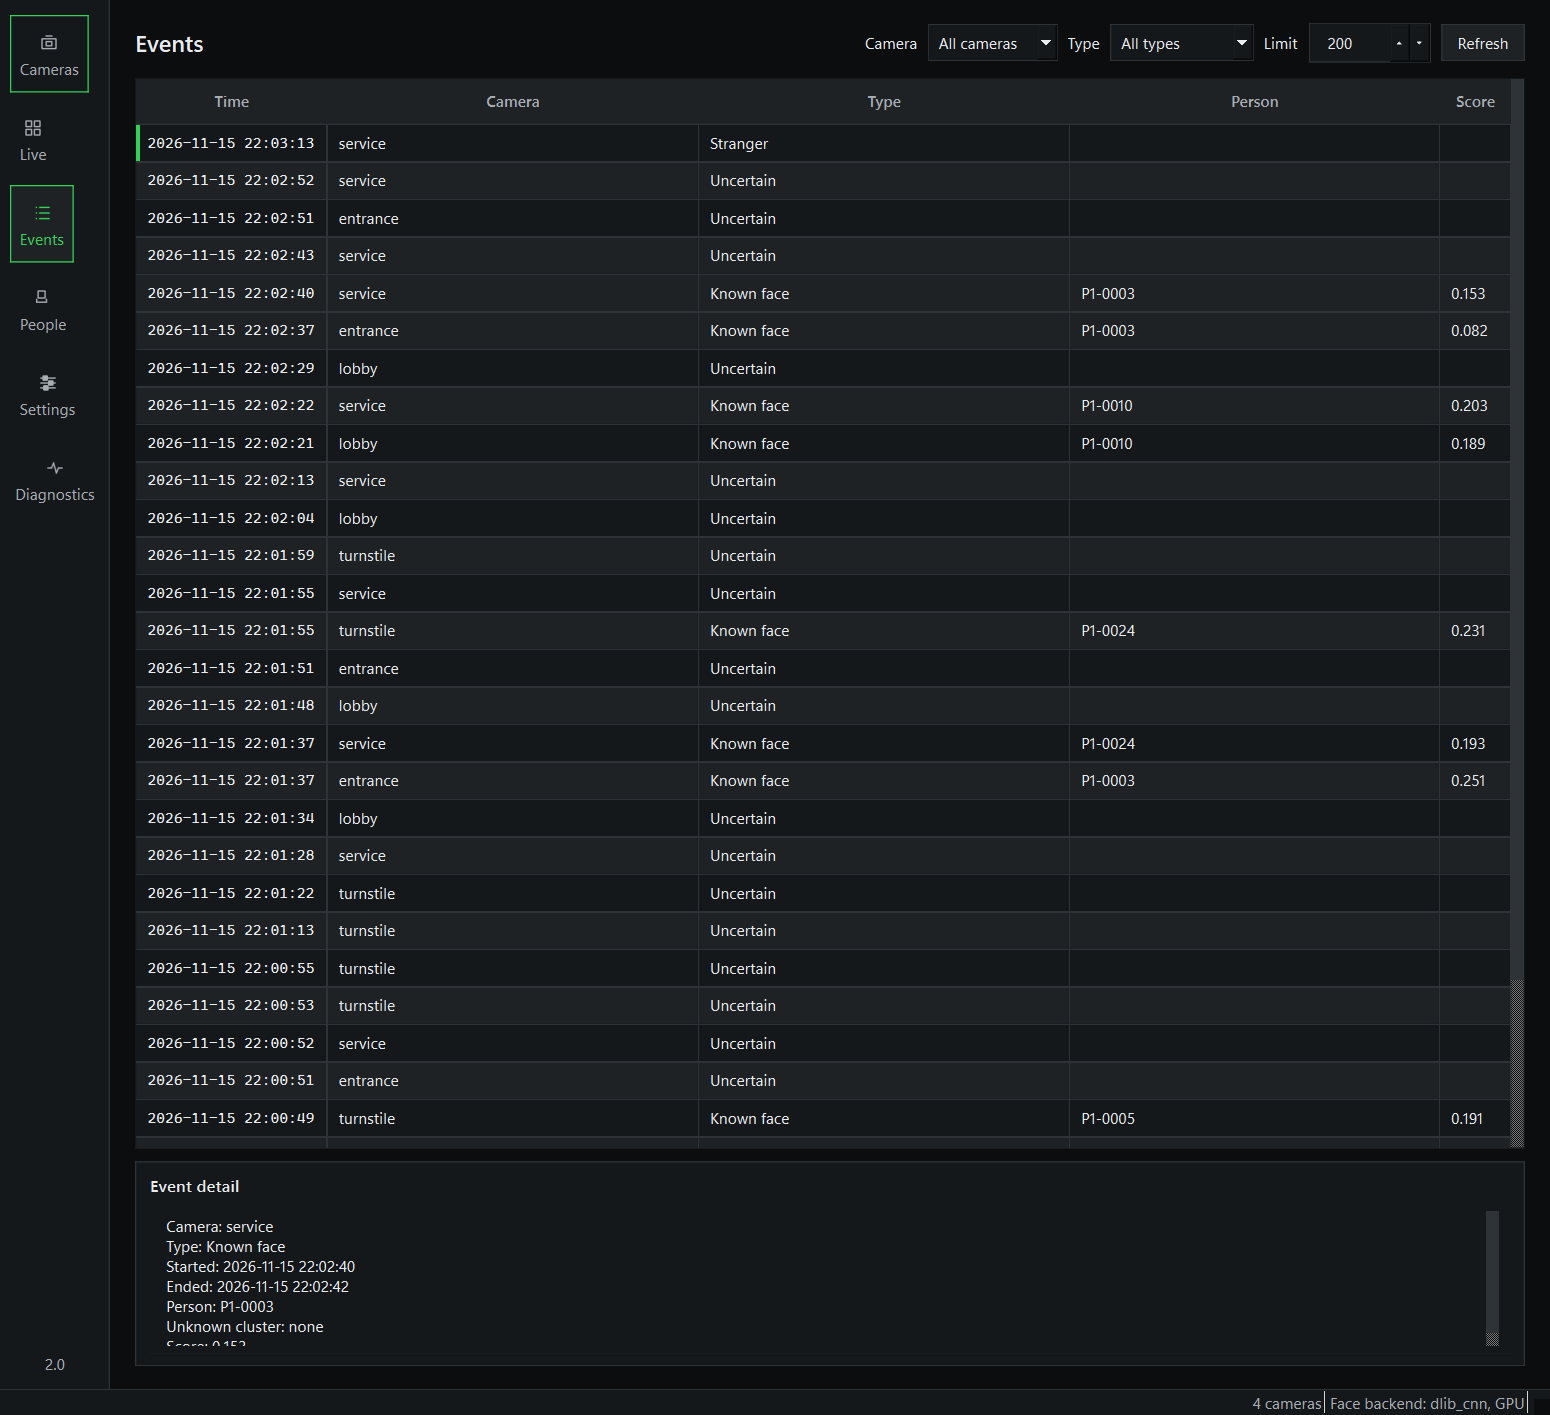
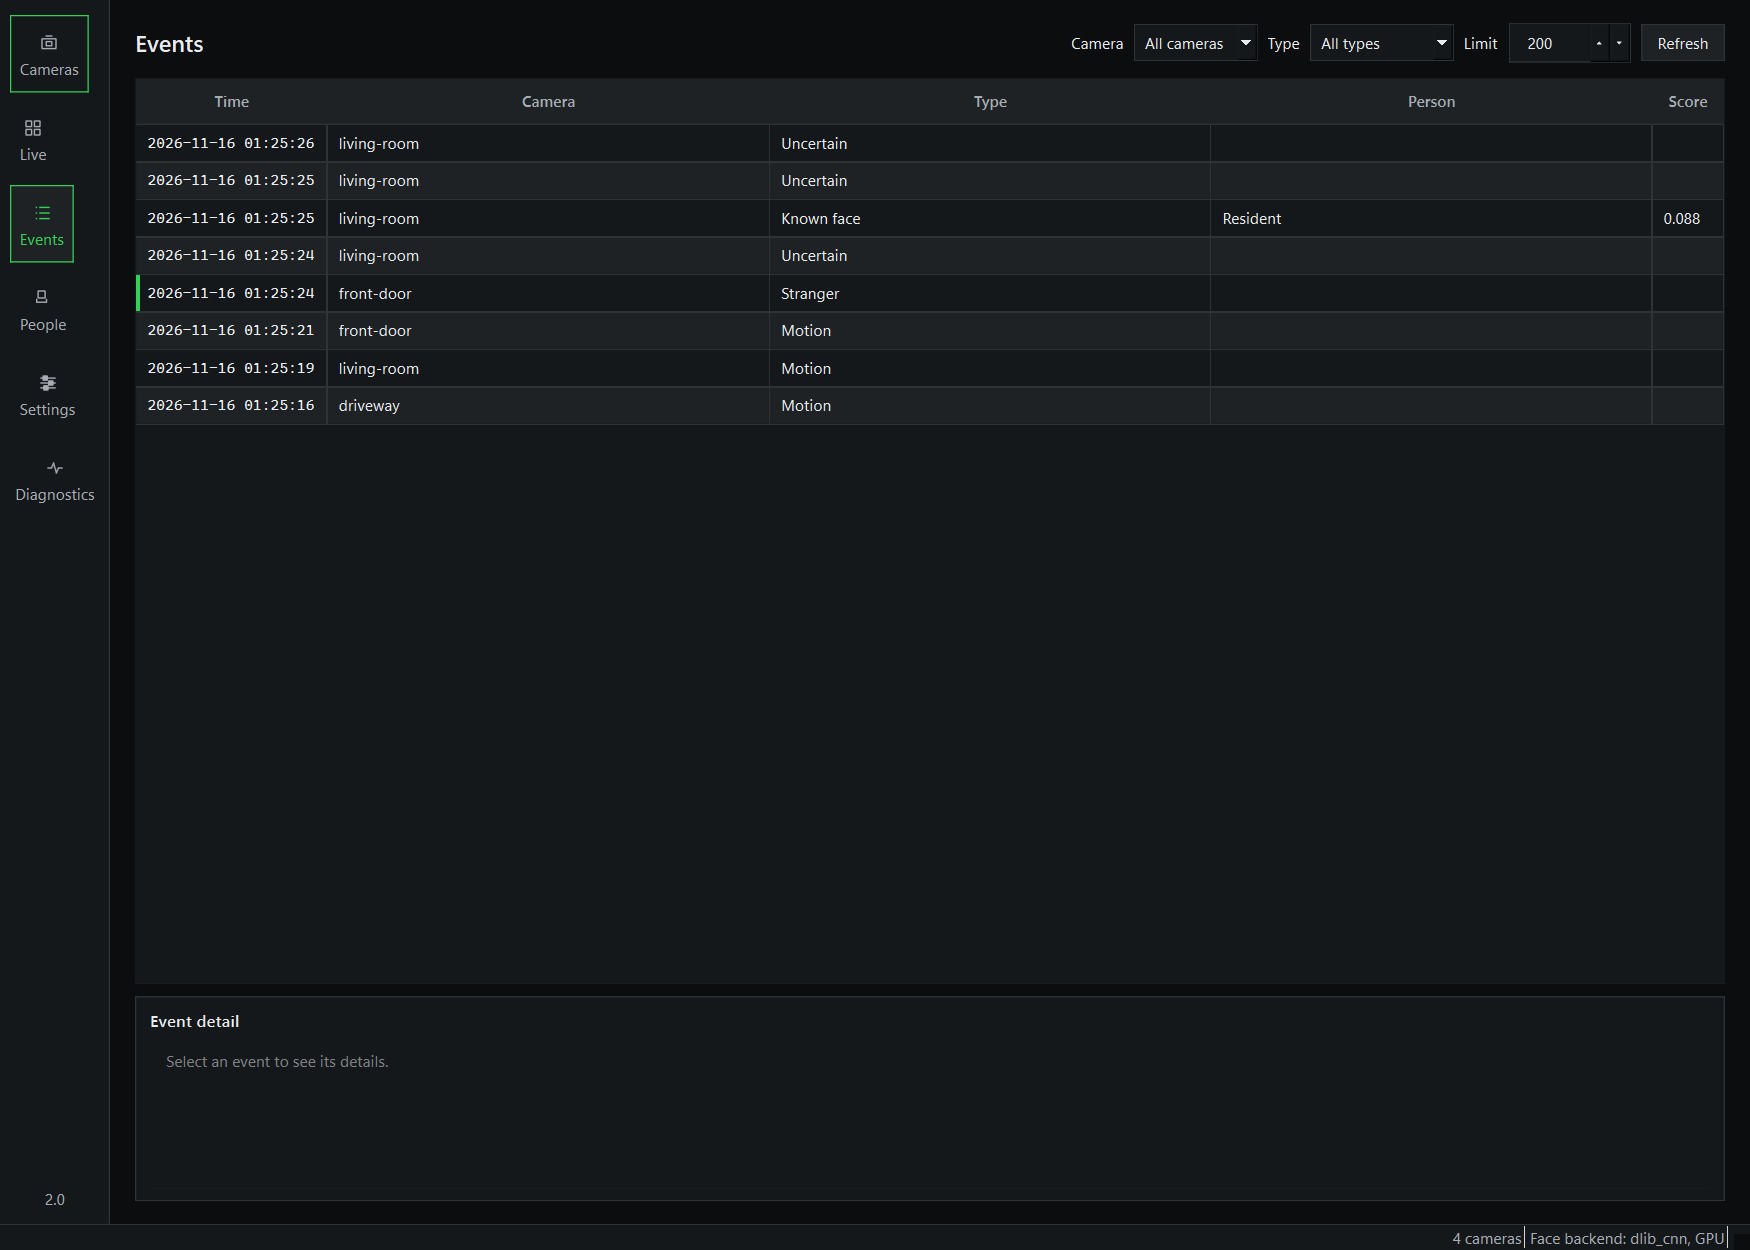
docs: replace the console screenshots with camera samples
The Live page shows the four data/live-videos clips in a 2x2 grid, with the indoor resident enrolled and the front door visitor left unknown. The Events shot now includes known, uncertain, stranger, and motion rows. Live is stored as JPEG because the real footage makes the PNG much larger.

diff --git a/README.MD b/README.MD
@@ -11,18 +11,22 @@ as a single process with background workers.
 
 ## Screenshots
 
-The four feeds are ChokePoint test clips played from disk.
+The feeds are four camera sample clips played from disk. The resident is
+enrolled from the indoor clip; the delivery visitor at the front door is not
+enrolled, so the console reports an unknown face. The person names shown are
+demo labels, not real identities.
 
-![Live page with four cameras and recognition overlays](docs/images/live-grid.png)
+![Live page with four cameras and recognition overlays](docs/images/live-grid.jpg)
 
-Four cameras on the Live page. Each tile paints from its own last-frame slot,
-so the display keeps its rate while the inference worker names the people in
-view.
+Four cameras on the Live page in a 2x2 grid. Each tile paints from its own
+last-frame slot, so the display keeps its rate while the inference worker names
+the people in view. The resident is known and the visitor at the front door is
+unknown.
 
 ![Events page](docs/images/events.png)
 
-The Events page keeps one row per visit with camera, type, person, and score,
-and shows the full record underneath.
+The Events page keeps one row per visit with camera, type, person, and score.
+Known faces, uncertain faces, strangers, and motion all land in the same log.
 
 ![Settings page](docs/images/settings.png)
 
